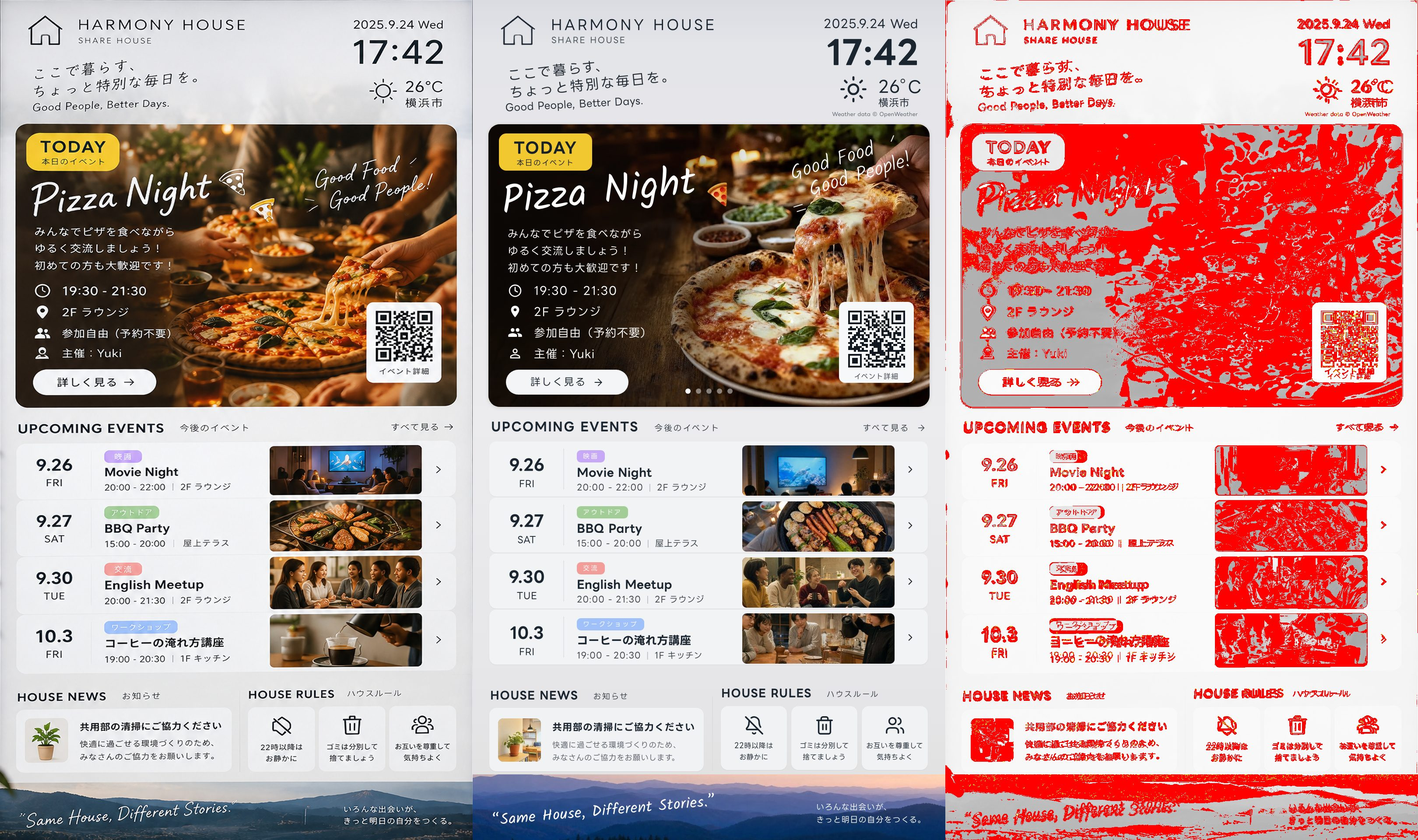
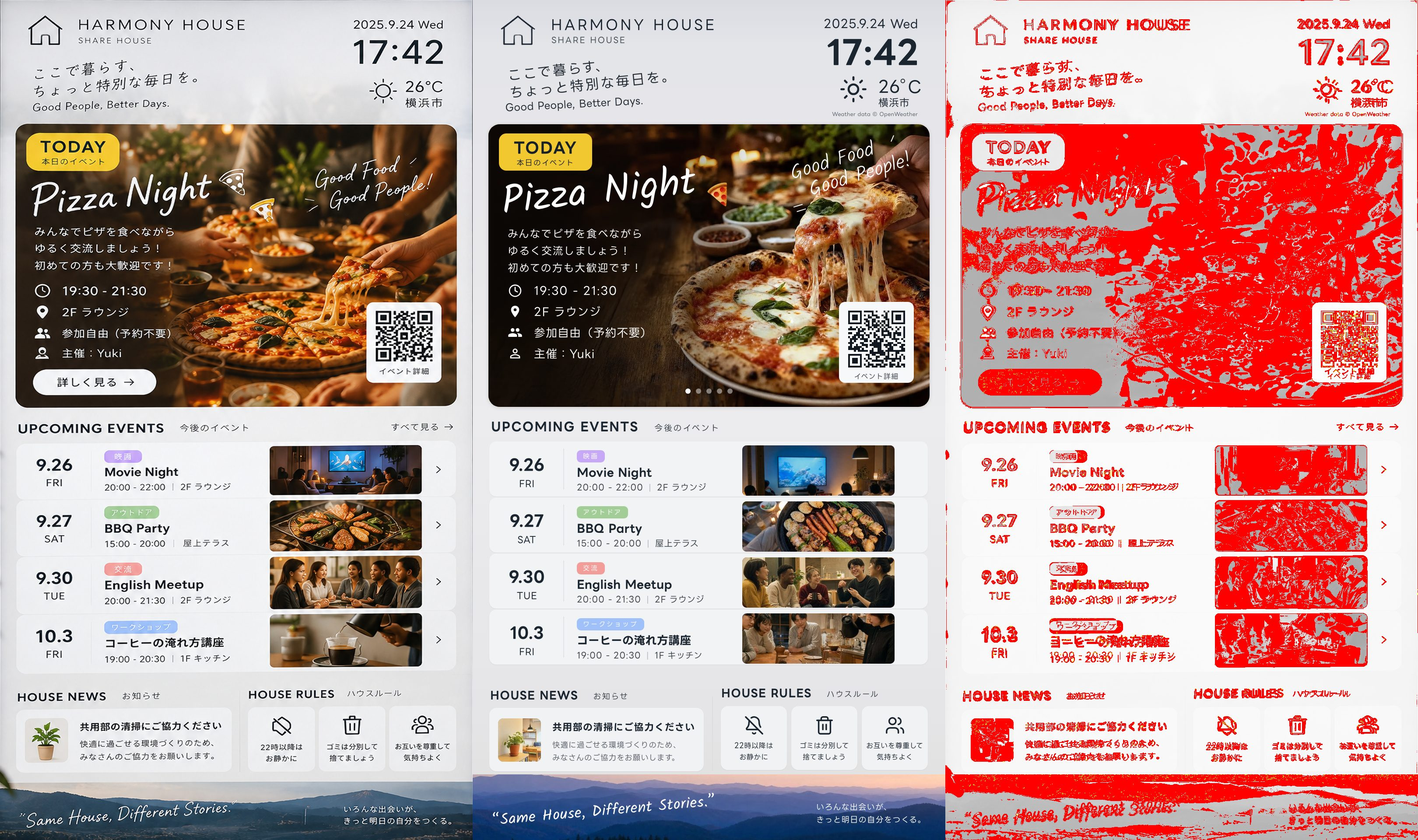
fix(signage): 押せないサイネージから押せそうな部品を外す、UPCOMING の目印を収める
- タッチ操作ができないため、大きな欄の「詳しく見る/詳細はこちら →」、Upcoming の「すべて見る →」と各行の「›」を削除（ユーザー指摘）
- イベントの詳細はスライドショーの大きな欄と QR コードで見せる
- 縦型の目印で UPCOMING がはみ出していたのを、STARTING SOON と同じ文字組みに

Changed region(s): [[0.3429, 0.4375, 0.4676, 0.4688], [0.6858, 0.4375, 0.7793, 0.4688], [0.9352, 0.5, 0.9664, 0.5312]]

diff --git a/components/signage/PortraitLayout.tsx b/components/signage/PortraitLayout.tsx
@@ -1,7 +1,7 @@
 /**
  * 縦型（1080×1920）の配置。モック image/UI-V.png の画面部分に合わせる。
  */
-import { ArrowRight, ChevronRight, Clock, House } from "lucide-react";
+import { Clock, House } from "lucide-react";
 import type { SignageConfig, SignageEvent } from "@/lib/config-schema";
 import { COPY } from "./copy";
 import {
@@ -78,9 +78,6 @@ export function PortraitLayout({ config, view, resolveMediaUrl }: Props) {
       <div className={styles.pSectionTitle} style={{ left: 42, top: 961 }}>
         <span className={styles.pSectionEn}>{COPY.upcoming.en}</span>
         <span className={styles.pSectionJa}>{COPY.upcoming.ja}</span>
-      </div>
-      <div className={styles.pSeeAll}>
-        {COPY.seeAll} <ArrowRight size={22} strokeWidth={1.6} aria-hidden />
       </div>
       <div className={styles.pUpcoming} data-testid="upcoming">
         {view.upcoming.length === 0 ? <div className={styles.pEmpty}>{COPY.noUpcoming}</div> : null}
@@ -191,10 +188,6 @@ function Hero({
         </h1>
         {event.description ? <p className={styles.pDesc}>{event.description}</p> : null}
         <EventInfo event={event} withDate={state === "upcoming"} />
-        <div className={styles.pButton} aria-hidden>
-          {COPY.detailPortrait}
-          <ArrowRight size={26} strokeWidth={1.7} />
-        </div>
       </div>
       {isQrUrl(event.qrUrl) ? (
         <div className={styles.pQr}>
@@ -280,7 +273,6 @@ function UpcomingRow({ event, resolveMediaUrl }: { event: SignageEvent; resolveM
         resolveMediaUrl={resolveMediaUrl}
         className={styles.pRowImage}
       />
-      <ChevronRight className={styles.pRowChevron} size={26} strokeWidth={1.8} aria-hidden />
     </div>
   );
 }

diff --git a/components/signage/signage.module.css b/components/signage/signage.module.css
@@ -350,7 +350,8 @@
 }
 
 .pBadge[data-state="starting_soon"] .pBadgeEn,
-.pBadge[data-state="now_happening"] .pBadgeEn {
+.pBadge[data-state="now_happening"] .pBadgeEn,
+.pBadge[data-state="upcoming"] .pBadgeEn {
   margin-top: 20px;
   font-size: 22px;
   letter-spacing: 0;
@@ -477,21 +478,6 @@
   text-overflow: ellipsis;
 }
 
-.pButton {
-  margin-top: 13px;
-  margin-left: 4px;
-  width: 280px;
-  height: 57px;
-  border-radius: 29px;
-  background: #f4f5f7;
-  color: #1b2530;
-  display: flex;
-  align-items: center;
-  justify-content: center;
-  gap: 14px;
-  font-size: 23px;
-  letter-spacing: 0.12em;
-}
 
 .pCatch {
   position: absolute;
@@ -595,18 +581,6 @@
   margin-right: -0.56em;
 }
 
-.pSeeAll {
-  position: absolute;
-  right: 44px;
-  top: 964px;
-  display: flex;
-  align-items: center;
-  gap: 16px;
-  font-size: 19px;
-  letter-spacing: 0.14em;
-  color: var(--ink-soft);
-  white-space: nowrap;
-}
 
 /* Upcoming（縦） */
 .pUpcoming {
@@ -721,12 +695,6 @@
   overflow: hidden;
 }
 
-.pRowChevron {
-  position: absolute;
-  left: 949px;
-  top: 51px;
-  color: var(--ink);
-}
 
 /* お知らせ（縦） */
 .pNews {
@@ -1166,21 +1134,6 @@
   font-weight: 700;
 }
 
-.lButton {
-  margin-top: 29px;
-  width: 252px;
-  height: 62px;
-  border-radius: 31px;
-  background: #222c34;
-  color: #fff;
-  display: flex;
-  align-items: center;
-  justify-content: center;
-  gap: 12px;
-  font-weight: 700;
-  font-size: 20px;
-  letter-spacing: 0.14em;
-}
 
 .lQr {
   position: absolute;
@@ -1348,12 +1301,6 @@
   overflow: hidden;
 }
 
-.lRowChevron {
-  position: absolute;
-  left: 587px;
-  top: 51px;
-  color: var(--ink);
-}
 
 /* 下段（横） */
 .lBottomBand {

diff --git a/components/signage/LandscapeLayout.tsx b/components/signage/LandscapeLayout.tsx
@@ -2,7 +2,7 @@
  * 横型（1920×1080）の配置。モック image/UI-H.png の画面部分に合わせる。
  */
 import { Fragment } from "react";
-import { ArrowRight, ChevronRight, Clock, House } from "lucide-react";
+import { Clock, House } from "lucide-react";
 import type { SignageConfig, SignageEvent } from "@/lib/config-schema";
 import { tokyoParts } from "@/lib/dates";
 import { COPY } from "./copy";
@@ -235,10 +235,6 @@ function Hero({
         </h1>
         {event.description ? <p className={styles.lDesc}>{event.description}</p> : null}
         <EventInfo event={event} withDate={state === "upcoming"} />
-        <div className={styles.lButton} aria-hidden>
-          {COPY.detailLandscape}
-          <ArrowRight size={24} strokeWidth={1.8} />
-        </div>
       </div>
       {isQrUrl(event.qrUrl) ? (
         <div className={`${styles.lQr} ${fade}`}>
@@ -307,7 +303,6 @@ function UpcomingRow({ event, resolveMediaUrl }: { event: SignageEvent; resolveM
         resolveMediaUrl={resolveMediaUrl}
         className={styles.lRowImage}
       />
-      <ChevronRight className={styles.lRowChevron} size={24} strokeWidth={1.8} aria-hidden />
     </div>
   );
 }

diff --git a/components/signage/copy.ts b/components/signage/copy.ts
@@ -10,12 +10,9 @@ export const COPY = {
   landscapeTaglineScript: ["Good People", "Better Days"],
   landscapeBoxTagline: ["A SMALL COMMUNITY", "A BIGGER TOMORROW."],
   upcoming: { en: "UPCOMING EVENTS", ja: "今後のイベント" },
-  seeAll: "すべて見る",
   news: { en: "HOUSE NEWS", ja: "お知らせ" },
   rules: { en: "HOUSE RULES", ja: "ハウスルール" },
   week: { en: "THIS WEEK", ja: "今週の予定" },
-  detailPortrait: "詳しく見る",
-  detailLandscape: "詳細はこちら",
   qrLabel: "イベント詳細",
   hostPrefix: "主催：",
   noUpcoming: "予定されているイベントはありません",
